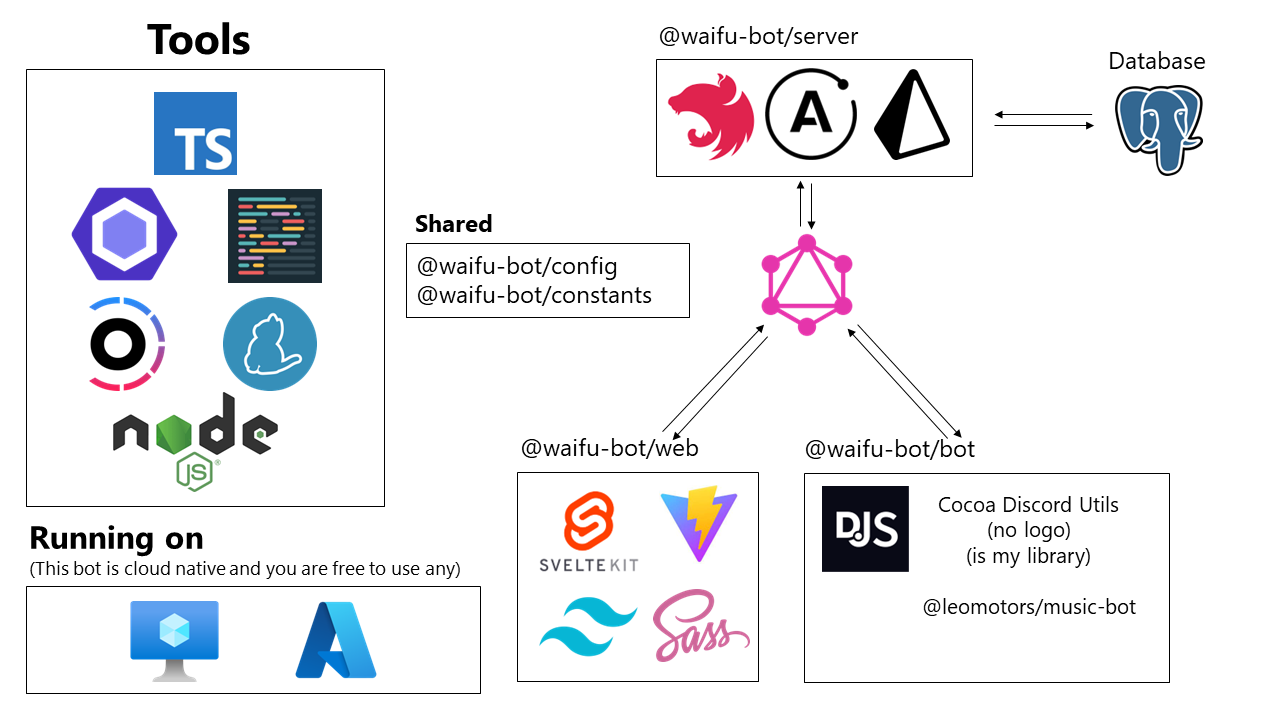
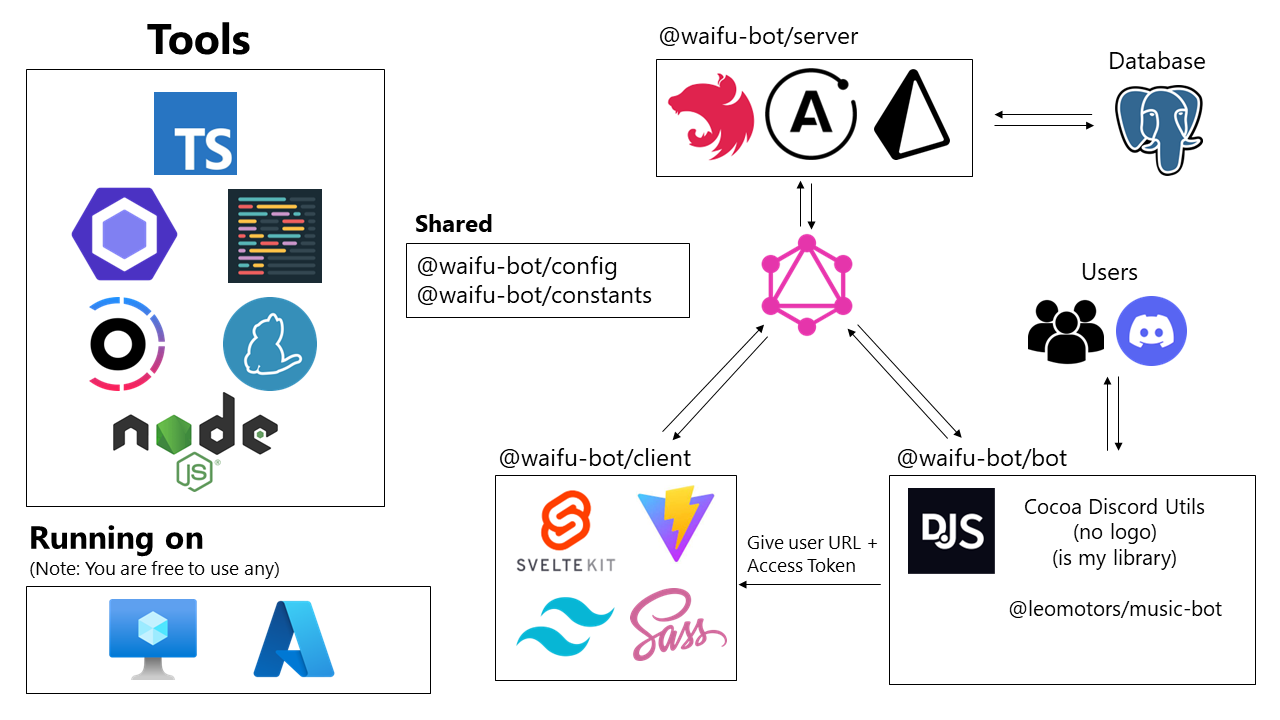
Update folder structure

diff --git a/README.md b/README.md
@@ -58,10 +58,10 @@ The Discord Bot (apps/bot) was built on top of [CarelessDev/harunon.js](https://
 
 ## Technical Version History
 
-Version 1 $\rarr$ Python Skittle-chan Era  
-Version 2 $\rarr$ Python Harunon Era  
-Version 3 $\rarr$ JavaScript  
-Version 4 $\rarr$ T U R B O R E P O
+Version 1 -> Python Skittle-chan Era  
+Version 2 -> Python Harunon Era  
+Version 3 -> JavaScript  
+Version 4 -> T U R B O R E P O
 
 ## Utility Library behind this Bot!
 

diff --git a/apps/README.md b/apps/README.md
@@ -1,4 +1,5 @@
 # apps
 
 - bot -> Discord Bot
-- web -> Website for Users to edit their playlist
+- client -> Website Frontend for Users to edit their playlist
+- server -> Backend Server with Database
